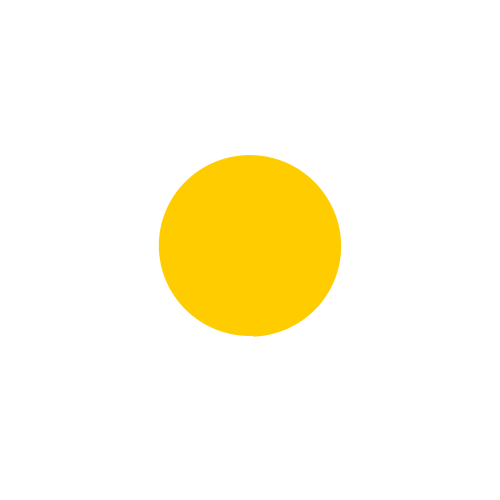
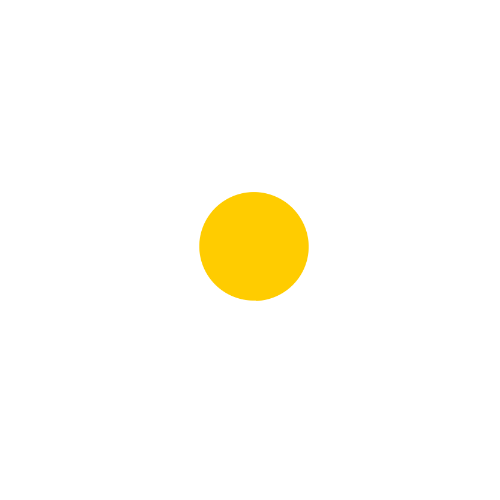
Update QTminiPacman | endless game?

Changed region(s): [[0.3, 0.3, 0.69, 0.69]]

diff --git a/QTminiPacman/MainWindow.cpp b/QTminiPacman/MainWindow.cpp
@@ -1,11 +1,14 @@
 #include "MainWindow.h"
 #include "ui_MainWindow.h"
+#include <Windows.h>
 
 MainWindow::MainWindow(QWidget *parent)
     : QMainWindow(parent)
     , ui(new Ui::MainWindow)
 {
     ui->setupUi(this);
+
+	srand(time(NULL));
 
 	this->grid = {
 		{{0, 0}, 0 }, {{1, 0}, 0 }, {{2, 0}, 0 }, {{3, 0}, 0 },
@@ -35,7 +38,8 @@ MainWindow::MainWindow(QWidget *parent)
 
 	for (const auto& [pos, label] : this->labels)
 	{
-		label->setFixedSize(170, 100);
+		label->setGeometry(QRect(x(), y(), 100, 100));
+		//label->setFixedSize(100, 100);
 	}
 
 	this->cur_state = { { 0, 4 }, { 3, 0 } };
@@ -45,6 +49,11 @@ MainWindow::MainWindow(QWidget *parent)
 	this->rlObject->runValueIteration();
 	this->rlObject->runPolicyIteration();
 
+	myTimer = new QTimer(this);
+	connect(myTimer, &QTimer::timeout, this, &MainWindow::loop);
+	myTimer->start(400);
+	qsrand(QTime::currentTime().msec());
+
 	display_board(this->cur_state);
 }
 
@@ -53,6 +62,7 @@ MainWindow::~MainWindow()
     delete ui;
 	delete this->rlObject;
 	delete this->mdpObject;
+	delete this->myTimer;
 }
 
 void MainWindow::display_board(const state_t& state) const
@@ -61,20 +71,8 @@ void MainWindow::display_board(const state_t& state) const
 	palette.setColor(this->ui->centralwidget->backgroundRole(), Qt::black);
 	this->ui->centralwidget->setPalette(palette);
 	
-	palette = this->ui->label_00->palette();
 	for (const auto& [pos, label] : this->labels)
 	{
-		if (this->grid.at(pos) == -100)
-		{
-			palette.setColor(label->backgroundRole(), QColor(0, 0, 102, 255));
-			label->setPalette(palette);
-		}
-		else
-		{
-			palette.setColor(label->backgroundRole(), Qt::black);
-			label->setPalette(palette);
-		}
-
 		label->setPixmap(QPixmap());
 		
 		if (pos == this->mdpObject->coin)
@@ -83,8 +81,7 @@ void MainWindow::display_board(const state_t& state) const
 			QPixmap pix;
 			if (pix.load(filename))
 			{
-				pix.scaled(label->size(), Qt::KeepAspectRatio);
-				label->setPixmap(pix);
+				label->setPixmap(pix.scaled(label->size(), Qt::KeepAspectRatio));
 			}
 		}
 		if (pos == state.player)
@@ -93,8 +90,7 @@ void MainWindow::display_board(const state_t& state) const
 			QPixmap pix;
 			if (pix.load(filename))
 			{
-				pix.scaled(label->size(), Qt::KeepAspectRatio);
-				label->setPixmap(pix);
+				label->setPixmap(pix.scaled(label->size(), Qt::KeepAspectRatio));
 			}
 		}
 		if (pos == state.ghost)
@@ -103,15 +99,88 @@ void MainWindow::display_board(const state_t& state) const
 			QPixmap pix;
 			if (pix.load(filename))
 			{
-				pix.scaled(label->size(), Qt::KeepAspectRatio);
-				label->setPixmap(pix);
+				label->setPixmap(pix.scaled(label->size(), Qt::KeepAspectRatio));
 			}
 		}
 	}
 }
 
+void MainWindow::loop()
+{
+	action_t action = this->rlObject->getBestPolicy(this->cur_state);
+	const auto& newGhost = this->randomMoveGhost(action);
+	switch (action)
+	{
+	case NORTH:
+		this->cur_state.player.second -= 1;
+		break;
+	case SOUTH:
+		this->cur_state.player.second += 1;
+		break;
+	case EAST:
+		this->cur_state.player.first += 1;
+		break;
+	case WEST:
+		this->cur_state.player.first -= 1;
+	}
+	display_board(this->cur_state);
+
+	if (this->mdpObject->isTerminal(this->cur_state))
+	{
+		if (this->cur_state.player == this->mdpObject->coin)
+		{
+			int free_coords = 0;
+			for (const auto& [pos, val] : this->grid)
+			{
+				if (val != -100) free_coords += 1;
+			}
+			int random = rand() % free_coords;
+
+			std::pair<int, int> new_coin;
+			for (const auto& [pos, val] : this->grid)
+			{
+				if (random == 0)
+				{
+					new_coin = pos;
+					break;
+				}
+				if (val != -100) random -= 1;
+			}
+
+			this->mdpObject->coin = new_coin;
+			this->rlObject->runValueIteration();
+			this->rlObject->runPolicyIteration();
+		}
+		else QApplication::quit();
+	}
+
+	this->cur_state.ghost = newGhost;
+	display_board(this->cur_state);
+}
+
 void MainWindow::keyPressEvent(QKeyEvent* event)
 {
+	action_t action = this->rlObject->getBestPolicy(this->cur_state);
+	const auto& newGhost = this->randomMoveGhost(action);
+	switch (action)
+	{
+	case NORTH:
+		this->cur_state.player.second -= 1;
+		break;
+	case SOUTH:
+		this->cur_state.player.second += 1;
+		break;
+	case EAST:
+		this->cur_state.player.first += 1;
+		break;
+	case WEST:
+		this->cur_state.player.first -= 1;
+	}
+
+	display_board(this->cur_state);
+
+	if (this->mdpObject->isTerminal(this->cur_state)) QApplication::quit();
+
 	switch (event->key())
 	{
 	case Qt::Key_Down:
@@ -133,27 +202,29 @@ void MainWindow::keyPressEvent(QKeyEvent* event)
 		{
 			if (this->mdpObject->isAvailable(this->cur_state.ghost, EAST)) this->cur_state.ghost.first += 1;
 		}
+	default:
+		this->cur_state.ghost = newGhost;
 	}
 
 	display_board(this->cur_state);
+}
 
-	action_t action = this->rlObject->getBestPolicy(this->cur_state);
-	switch (action)
+std::pair<int, int> MainWindow::randomMoveGhost(action_t action)
+{
+	const auto& transitions = this->mdpObject->getTransitions(this->cur_state, action);
+
+	float random = rand() % 1000 / 1000.0;
+	std::pair<int, int> new_coords = this->cur_state.ghost;
+
+	for (const auto& [pair, prob] : transitions)
 	{
-	case NORTH:
-		this->cur_state.player.second -= 1;
-		break;
-	case SOUTH:
-		this->cur_state.player.second += 1;
-		break;
-	case EAST:
-		this->cur_state.player.first += 1;
-		break;
-	case WEST:
-		this->cur_state.player.first -= 1;
+		if (random < prob)
+		{
+			new_coords = pair.second.ghost;
+			break;
+		}
+		else random -= prob;
 	}
 
-	display_board(this->cur_state);
-
-	if (this->mdpObject->isTerminal(this->cur_state)) QApplication::quit();
+	return new_coords;
 }

diff --git a/QTminiPacman/MainWindow.h b/QTminiPacman/MainWindow.h
@@ -4,6 +4,8 @@
 #include <QMainWindow>
 #include <QLabel>
 #include <QkeyEvent>
+#include <QTimer>
+#include <QTime>
 #include "rl.h"
 
 QT_BEGIN_NAMESPACE
@@ -20,6 +22,7 @@ private:
 	std::map<std::pair<int, int>, int> grid;
 	std::map<std::pair<int, int>, QLabel *> labels;
 	state_t cur_state;
+	QTimer* myTimer;
 
 public:
 
@@ -29,6 +32,11 @@ public:
 	mdp* mdpObject;
 	void display_board(const state_t& state) const;
 	void keyPressEvent(QKeyEvent* event);
+	std::pair<int, int> randomMoveGhost(action_t action);
+
+private slots:
+
+	void MainWindow::loop();
 
 };
 #endif // MAINWINDOW_H

diff --git a/QTminiPacman/rl.cpp b/QTminiPacman/rl.cpp
@@ -35,6 +35,7 @@ void rl::runValueIteration()
 	// for each state finds maximum QValue
 	// saves the best actions as a map <state_t, float>
 
+	clearStateValues();
 	std::map<state_t, float> new_state_values;
 
 	float QVal = 0, max = 0;
@@ -57,6 +58,15 @@ void rl::runValueIteration()
 			new_state_values[state] = max;
 		}
 		this->state_values = new_state_values;
+	}
+}
+
+void rl::clearStateValues()
+{
+	const auto allStates = this->environment->getAllStates();
+	for (auto& state : allStates)
+	{
+		this->state_values[state] = 0.0;
 	}
 }
 

diff --git a/QTminiPacman/mdp.h b/QTminiPacman/mdp.h
@@ -37,14 +37,14 @@ private:
 
 	std::map<std::pair<int, int>, int> grid;
 	state_t cur_state;
-	int width;
-	int height;
 	float gamma;
 	int forbVal;
 	
 public:
-	mdp(const std::map<std::pair<int, int>, int>& grid, int width, int height, std::pair<int, int> coin);
 
+	int width;
+	int height;
+	mdp(const std::map<std::pair<int, int>, int>& grid, int width, int height, std::pair<int, int> coin);
 	std::pair<int, int> coin;
 	std::vector<state_t> getAllStates() const;
 	std::vector<action_t> getPossibleActions(const state_t& state) const;

diff --git a/QTminiPacman/rl.h b/QTminiPacman/rl.h
@@ -23,6 +23,7 @@ public:
 	rl(mdp* environment);
 	float computeQValue(const state_t& state, const action_t& action);
 	void runValueIteration();
+	void clearStateValues();
 	void runPolicyIteration();
 	action_t getBestPolicy(const state_t& state) const;
 
